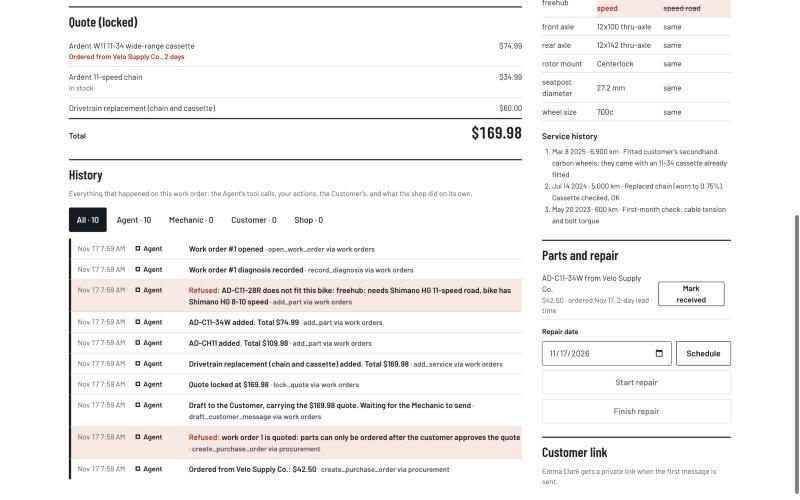
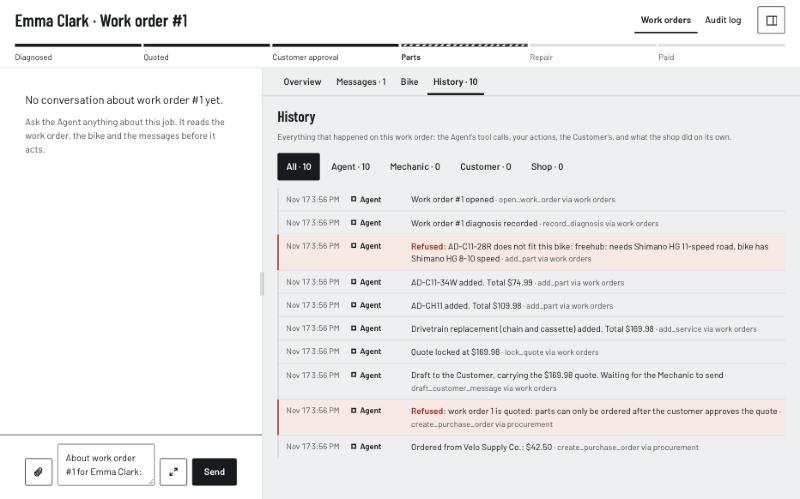
Retake the README screenshots after M7
- New: the job screen (from a live run, photo attached), the demo stage
  with Customer POV open, the Customer's quote, History and the audit log
  (from the scripted make demo run, which triggers the shop's refusals),
  and the front door. agent-live.jpg was unused and is gone.
- The audit log's work order column falls back to the call's own
  work_order_id when there's no Agent conversation (scripted runs).
- Front door: "Play both sides at once" sizes to its text.

Changed region(s): [[0.0312, 0.1503, 1.0, 0.992], [0.0, 0.0, 1.0, 0.2405], [0.625, 0.1503, 0.6562, 0.1804]]

diff --git a/web/static/css/shop.css b/web/static/css/shop.css
@@ -557,6 +557,7 @@ body.customer {
 .stage-door { display: flex; flex-wrap: wrap; align-items: center; gap: var(--s3) var(--s5); margin-top: var(--s6); padding: var(--s4) 0; border-top: 2px solid var(--ink); border-bottom: 1px solid var(--hair); }
 .stage-door[hidden] { display: none; }
 .stage-door p { margin: 0; flex: 1 1 320px; max-width: 620px; }
+.stage-door .btn-big { width: auto; flex: none; padding: 0 32px; }
 .doors { display: grid; grid-template-columns: repeat(2, minmax(0, 1fr)); gap: var(--s5); margin-top: var(--s6); }
 .door { border-top: 2px solid var(--ink); padding-top: var(--s4); }
 .door p { margin: var(--s3) 0 0; }

diff --git a/tests/test_front_door.py b/tests/test_front_door.py
@@ -89,7 +89,7 @@ def test_audit_log_lists_tool_calls_and_refusals(client, conn):
     conn.executemany(
         "INSERT INTO audit_log (runtime, tool, args_json, result_summary) VALUES (?, ?, ?, ?)",
         [("anthropic", "check_fit", '{"sku": "AD-C11-34W"}', '{"fits": true}'),
-         ("anthropic", "add_part", '{"sku": "AD-C11-28R"}', "refused: AD-C11-28R does not fit this bike")],
+         ("anthropic", "add_part", '{"work_order_id": 7, "sku": "AD-C11-28R"}', "refused: AD-C11-28R does not fit this bike")],
     )
     conn.commit()
     assert client.get("/api/audit").status_code == 401
@@ -97,7 +97,9 @@ def test_audit_log_lists_tool_calls_and_refusals(client, conn):
     assert (data["total"], data["refused"]) == (2, 1)
     assert [(e["tool"], e["server"], e["refused"]) for e in data["entries"]] == [
         ("add_part", "work orders", True), ("check_fit", "catalog", False)]
-    assert data["entries"][0]["arguments"] == {"sku": "AD-C11-28R"}
+    assert data["entries"][0]["arguments"] == {"work_order_id": 7, "sku": "AD-C11-28R"}
+    # No conversation (a scripted client): the work order comes from the call's arguments, when it has one.
+    assert [e["work_order_id"] for e in data["entries"]] == [7, None]
     refused = client.get("/api/audit?refused_only=true", headers=STAFF).json()["entries"]
     assert [e["tool"] for e in refused] == ["add_part"]
 

diff --git a/api/staff.py b/api/staff.py
@@ -238,8 +238,10 @@ def audit_log(
         params.append(conversation_id)
     if refused_only:
         where.append("a.result_summary LIKE 'refused:%'")
+    # The work order comes from the Agent's conversation, or else from the call's own arguments
+    # (a scripted client like `make demo` has no conversation).
     sql = f"""SELECT a.id, a.at, a.conversation_id, a.runtime, a.tool, a.args_json, a.result_summary,
-                     c.work_order_id
+                     COALESCE(c.work_order_id, json_extract(a.args_json, '$.work_order_id')) AS work_order_id
               FROM audit_log a LEFT JOIN agent_conversations c ON c.id = a.conversation_id
               {"WHERE " + " AND ".join(where) if where else ""}
               ORDER BY a.id DESC LIMIT ?"""

diff --git a/README.md b/README.md
@@ -2,7 +2,7 @@
 
 A fictional bike shop where an AI Agent works alongside the Mechanic, built to demonstrate agentic workflows over the Model Context Protocol (MCP). The Agent diagnoses, checks parts against the bike the Customer actually has, quotes, and plans the order. People stay in charge: the Mechanic sends every message, only the Customer approves, and the shop's own code enforces both.
 
-![The Agent at work: each tool call streams into the activity log with the MCP server it went to, while the quote and the draft to the Customer build up in the side panel.](docs/screenshots/agent-quote.jpg)
+![One job screen: the Agent's tool calls in the activity log and its reply on the left, the work order with the next step and the quote on the right. From a live run.](docs/screenshots/agent-quote.jpg)
 
 > Mitchell Bike Co. is not a real business. All data is synthetic, the parts and brands are invented (the interface standards are real), and payments run in Stripe test mode.
 
@@ -27,8 +27,9 @@ In demo mode the front door opens the demo stage (**Play both sides at once**): 
 
 | | |
 | --- | --- |
-| ![Each work order's History: the Agent's tool calls, with the shop's two refusals in red.](docs/screenshots/history.jpg) | ![The Customer's page: the quote in plain words and one obvious action.](docs/screenshots/customer-quote.jpg) |
-| ![The audit log: every tool call, written by the MCP servers themselves.](docs/screenshots/audit-log.jpg) | ![The front door.](docs/screenshots/front-door.jpg) |
+| ![The demo stage: the workshop at full width, Emma's phone opened from the Customer POV tab, and the bottom bar saying whose turn it is.](docs/screenshots/demo-stage.jpg) | ![The Customer's page: the quote in plain words and one obvious action.](docs/screenshots/customer-quote.jpg) |
+| ![A work order's History: the Agent's tool calls, with the shop's two refusals in red (from the scripted `make demo` run).](docs/screenshots/history.jpg) | ![The audit log: every tool call, written by the MCP servers themselves.](docs/screenshots/audit-log.jpg) |
+| ![The front door.](docs/screenshots/front-door.jpg) | |
 
 ## The story
 

diff --git a/docs/decisions.md b/docs/decisions.md
@@ -280,3 +280,7 @@ One entry per choice: what was decided, what was rejected, and why.
 - **Decided:** the workshop's own bar (the name and Work orders, Agent, Audit log) is gone, everywhere and not only in the demo stage. Each screen puts **Work orders** and **Audit log** in its heading row; the job screen's heading is just "Customer · Work order #N", with the panel toggle as an icon. The Agent link and the "needs you" count went too: the Agent lives on the job screen now, and the list's "Needs you" filter already counts. A job's conversation row only appears when it has more than one conversation, and the composer's label is kept for screen readers only.
 - **Rejected:** removing the bar only inside the demo stage (two layouts of the same screens to keep in step).
 - **Why:** on a laptop every row counts, for the Mechanic as much as in the demo. The cost is that the standalone workshop no longer shows the shop's name; the front door and the demo stage do.
+
+### Screenshots retaken after M7
+- **Decided:** the README's screenshots were retaken for the new screens. The job screen and the demo stage come from a live run in the demo stage (the real model, with the illustrative photo attached; it made 16 tool calls, one of them refused because it asked for a work order before opening one). History and the audit log come from the scripted `make demo` run, which triggers the shop's two refusals, and say so. The Customer's page and the front door were captured with headless Chrome at 2x and 1x, since they need no sign-in.
+- **Also fixed:** the audit log's work order column now falls back to the call's own `work_order_id` argument when there's no Agent conversation, so the scripted run's calls link to their work order.
